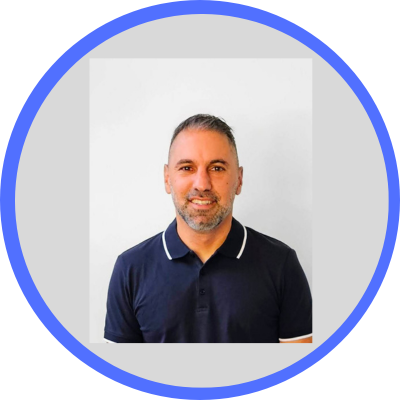
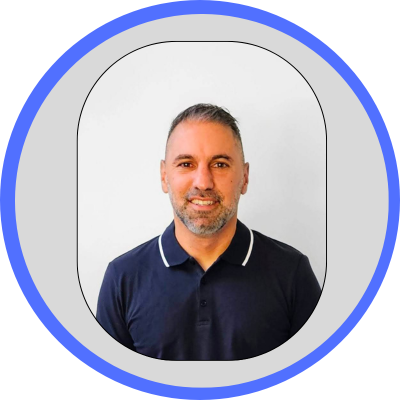
Deployed 552969c with MkDocs version: 1.6.1

diff --git a/speakers/index.html b/speakers/index.html
@@ -593,7 +593,7 @@
 <li><a href="../abstracts/AdrianCole/"><img alt="Adrian Cole" src="../images/speakers/headshots/AdrianCole.png" /> Adrian Cole</a></li>
 <li><a href="../abstracts/AnatolyLitovsky/"><img alt="Anatoly Litovsky" src="../images/speakers/headshots/AnatolyLitovsky.png" /> Anatoly Litovsky</a></li>
 <li><a href="../abstracts/ArturRajski/"><img alt="Artur Rajski" src="../images/speakers/headshots/ArturRajski.png" /> Artur Rajski</a></li>
-<li><a href="../abstracts/AviShua/"><img alt="Avi Shua" src="../images/speakers/headshots/placeholder.png" /> Avi Shua</a></li>
+<li><a href="../abstracts/AviShua/"><img alt="Avi Shua" src="../images/speakers/headshots/AviShua.png" /> Avi Shua</a></li>
 <li><a href="../abstracts/BojanZivic/"><img alt="Bojan Zivic" src="../images/speakers/headshots/placeholder.png" /> Bojan Zivic</a></li>
 <li><a href="../abstracts/BradMcCoy/"><img alt="Brad McCoy" src="../images/speakers/headshots/placeholder.png" /> Brad McCoy</a></li>
 <li><a href="../abstracts/CarlosSantana/"><img alt="Carlos Santana" src="../images/speakers/headshots/CarlosSantana.png" /> Carlos Santana</a></li>
